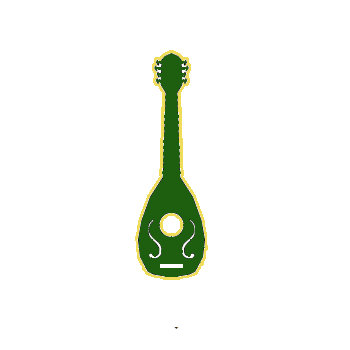
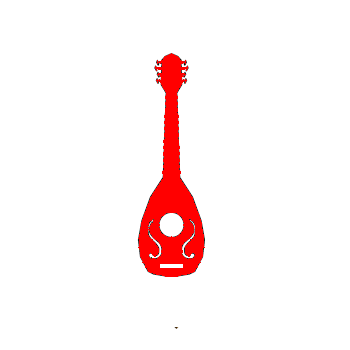
dicess

Changed region(s): [[0.3714, 0.1429, 0.6, 0.8]]

diff --git a/module/diceConfig.js b/module/diceConfig.js
@@ -582,56 +582,4 @@ export function diceConfig(dice) {
       font: 'MagicSchool',
       default: true,
     });
-    dice.addColorset({
-      name: "Clerigo",
-      description: ' * Clerigo * ',
-      category: 'Colors',
-      foreground: '#140141',
-      background: '#140141',
-      outline: '#79a3f7',
-      edge: '#79a3f7', 
-      texture: 'wood',
-      material: 'wood',
-      font: 'Wings_of_Darkness',
-      default: false,
-    });
-    dice.addColorset({
-      name: "Bardo",
-      description: ' * Bardo * ',
-      category: 'Colors',
-      foreground: '#1d5f0f',
-      background: '#1d5f0f',
-      outline: '#efdc58',
-      edge: '#efdc58', 
-      texture: 'radial',
-      material: 'metal',
-      font: 'Sectar',
-      default: false,
-    });
-    dice.addColorset({
-      name: "Guerreiro",
-      description: ' * Guerreiro * ',
-      category: 'Colors',
-      foreground: '#4101d5',
-      background: '#b4b5b6',
-      outline: '#b30059',
-      edge: '#4101d5', 
-      texture: 'metal',
-      material: 'metal',
-      font: 'BramblePrincess',
-      default: false,
-    });
-    dice.addColorset({
-      name: "Monge",
-      description: ' * Monge * ',
-      category: 'Colors',
-      foreground: '#ff0000',
-      background: '#3d07bb',
-      outline: '#ffffff',
-      edge: '#ffffff', 
-      texture: 'skulls',
-      material: 'plastic',
-      font: 'Heroes',
-      default: false,
-    });
 }
